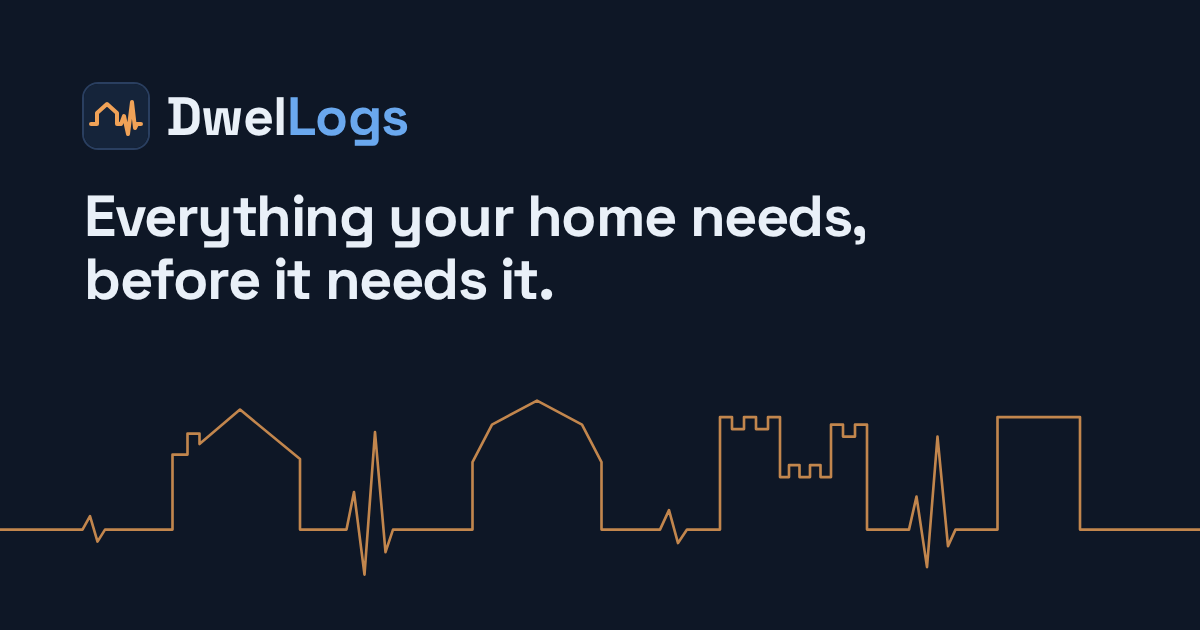
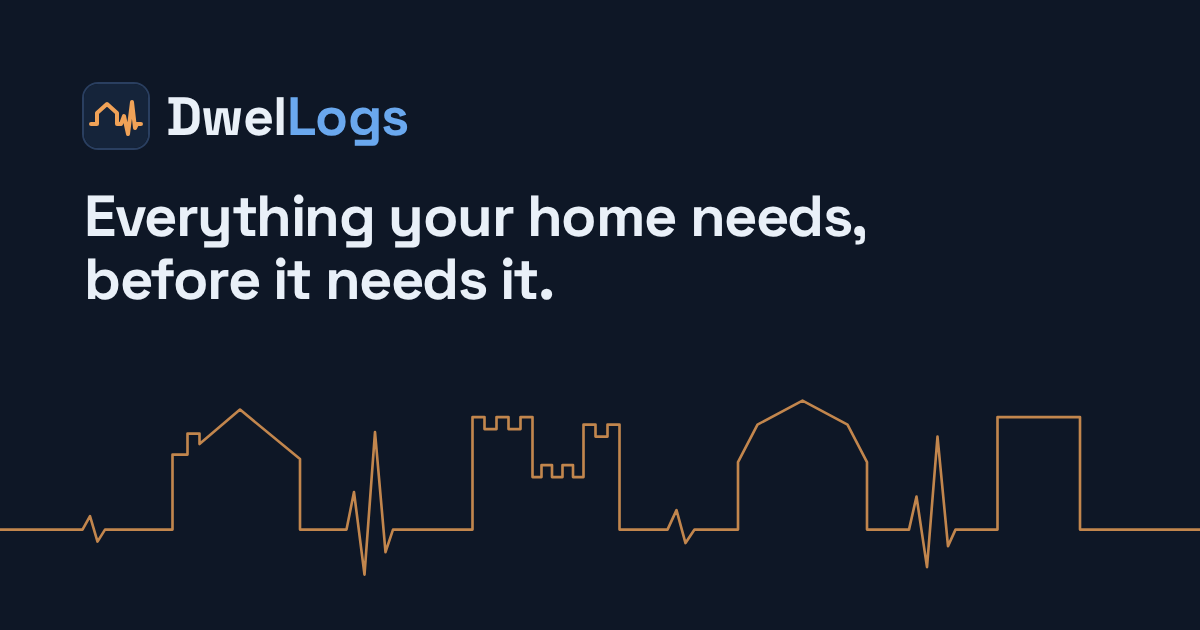
#27 Mobile scroll fix, swap castle and barn in background line

Changed region(s): [[0.555, 0.6333, 0.74, 0.8746], [0.4008, 0.6333, 0.5242, 0.8444], [0.37, 0.6937, 0.4008, 0.7238]]

diff --git a/index.html b/index.html
@@ -37,18 +37,24 @@
     }
     * { box-sizing: border-box; }
     body {
-      margin: 0; min-height: 100vh; display: flex; flex-direction: column;
+      /* svh, not vh: on iOS, 100vh is the height with the URL bar hidden, which
+         makes the page taller than the screen. vh stays as a fallback. */
+      margin: 0; min-height: 100vh; min-height: 100svh; display: flex; flex-direction: column;
+      overflow-x: clip;
       background: var(--bg); color: var(--ink);
       font: 17px/1.6 system-ui, -apple-system, "Segoe UI", Roboto, sans-serif;
     }
     h1, strong, .wordmark, .soon { font-family: "Space Grotesk", system-ui, sans-serif; }
 
-    /* Fixed background: one heart-monitor line that traces a house, a barn, a
-       castle and an apartment block between beats. Stays put while content
+    /* Fixed background: one heart-monitor line that traces a house, a castle, a
+       barn and an apartment block between beats. Stays put while content
        scrolls over it. "slice" crops the sides on phones so the shapes stay
        readable instead of shrinking to a squiggle. */
-    .vitals { position: fixed; inset: 0; z-index: 0; pointer-events: none; display: flex; align-items: flex-end; }
-    .vitals svg { width: 100%; height: 38vh; margin-bottom: 3vh; }
+    /* overflow: hidden matters on iOS Safari: "slice" draws the line wider than
+       the screen, and Safari can count that overflow toward the scrollable page
+       even though the layer is fixed, adding empty scroll past the footer. */
+    .vitals { position: fixed; inset: 0; z-index: 0; pointer-events: none; display: flex; align-items: flex-end; overflow: hidden; }
+    .vitals svg { display: block; width: 100%; height: 38vh; height: 38svh; margin-bottom: 3vh; margin-bottom: 3svh; overflow: hidden; }
     .vitals path {
       fill: none; stroke: var(--trace); stroke-width: 3; stroke-linejoin: round; stroke-linecap: round; opacity: .55;
       stroke-dasharray: 4200; stroke-dashoffset: 4200; animation: trace 5s ease-out forwards;
@@ -89,10 +95,10 @@
       <path d="M0 300 H110 l10 -18 l10 34 l10 -16 H200
                L230 300 V200 H250 V172 H266 V186 L320 140 L400 206 V300
                H450 L462 300 L472 250 L486 360 L500 170 L514 330 L524 300 H600
-               L630 300 V210 L656 160 L716 128 L776 160 L802 210 V300
-               H880 l12 -26 l12 44 l12 -18 H960
-               V150 H976 V166 H992 V150 H1008 V166 H1024 V150 H1040 V230 H1052 V214 H1066 V230 H1080 V214 H1094 V230 H1108
-               V160 H1124 V176 H1140 V160 H1156 V300
+               H630 V150 H646 V166 H662 V150 H678 V166 H694 V150 H710 V230 H722 V214 H736 V230 H750 V214 H764 V230 H778
+               V160 H794 V176 H810 V160 H826 V300
+               H890 l12 -26 l12 44 l12 -18 H984
+               V210 L1010 160 L1070 128 L1130 160 L1156 210 V300
                H1200 L1212 300 L1222 256 L1236 350 L1250 176 L1264 322 L1274 300 H1330
                V150 H1440 V300 H1600"/>
       <circle cx="1600" cy="300" r="5"/>

diff --git a/brand/README.md b/brand/README.md
@@ -32,7 +32,7 @@ Always written with a capital L, matching SaasyLogs.
 
 ## Background line
 
-One continuous path: blip, house with chimney, heartbeat, barn, blip, castle,
+One continuous path: blip, house with chimney, heartbeat, castle, blip, barn,
 big beat, apartment block. Every kind of dwelling. Fixed behind the content;
 draws in over 5s, static for reduced-motion users.
 
